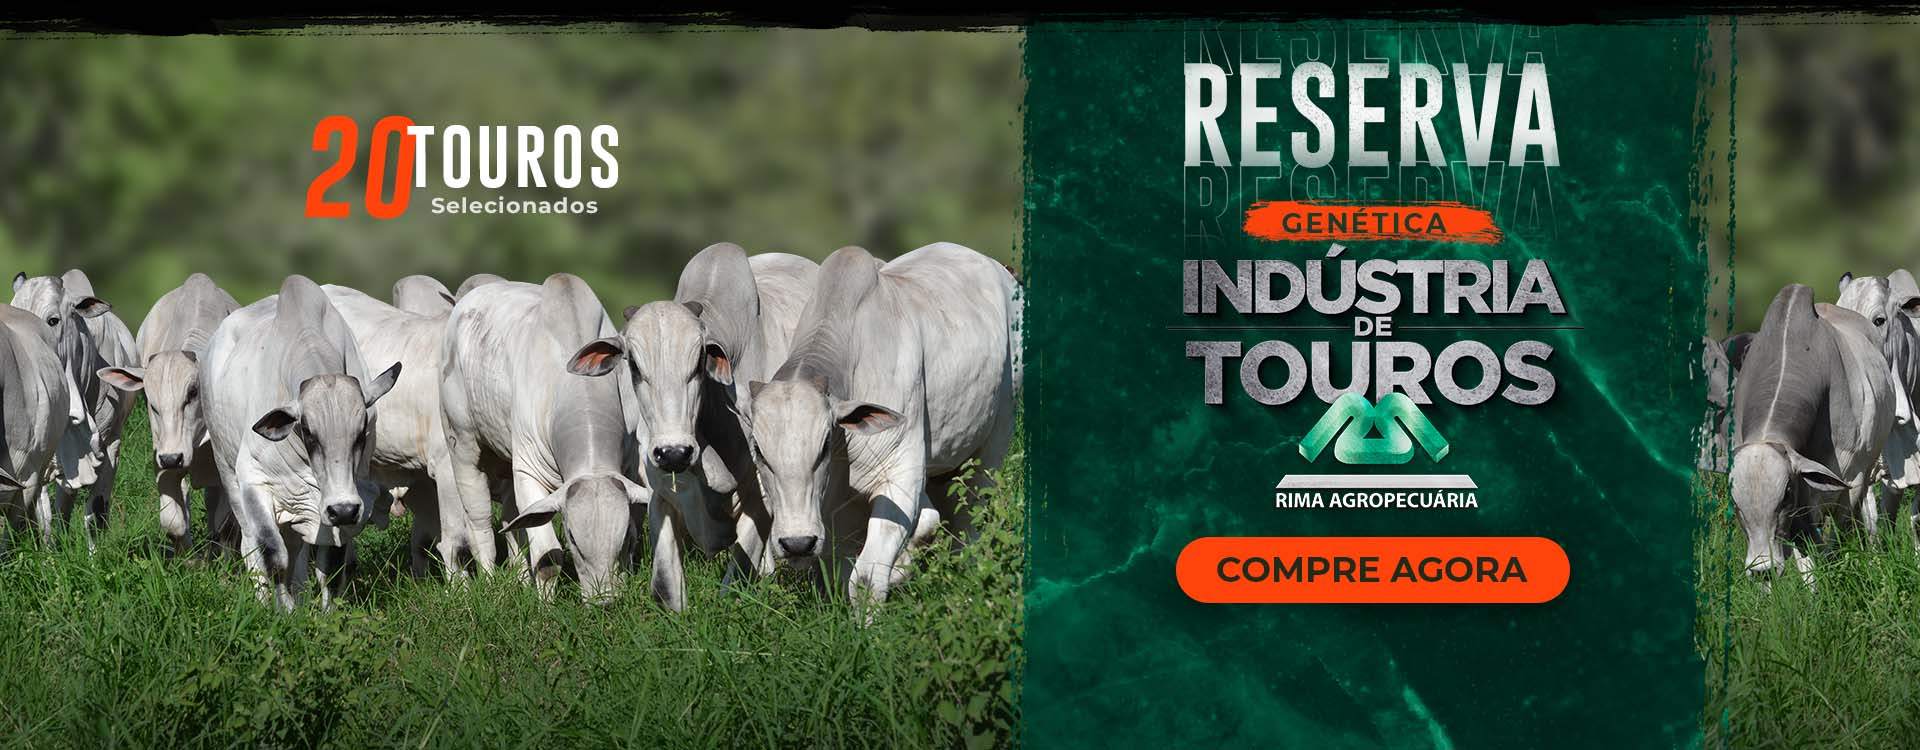
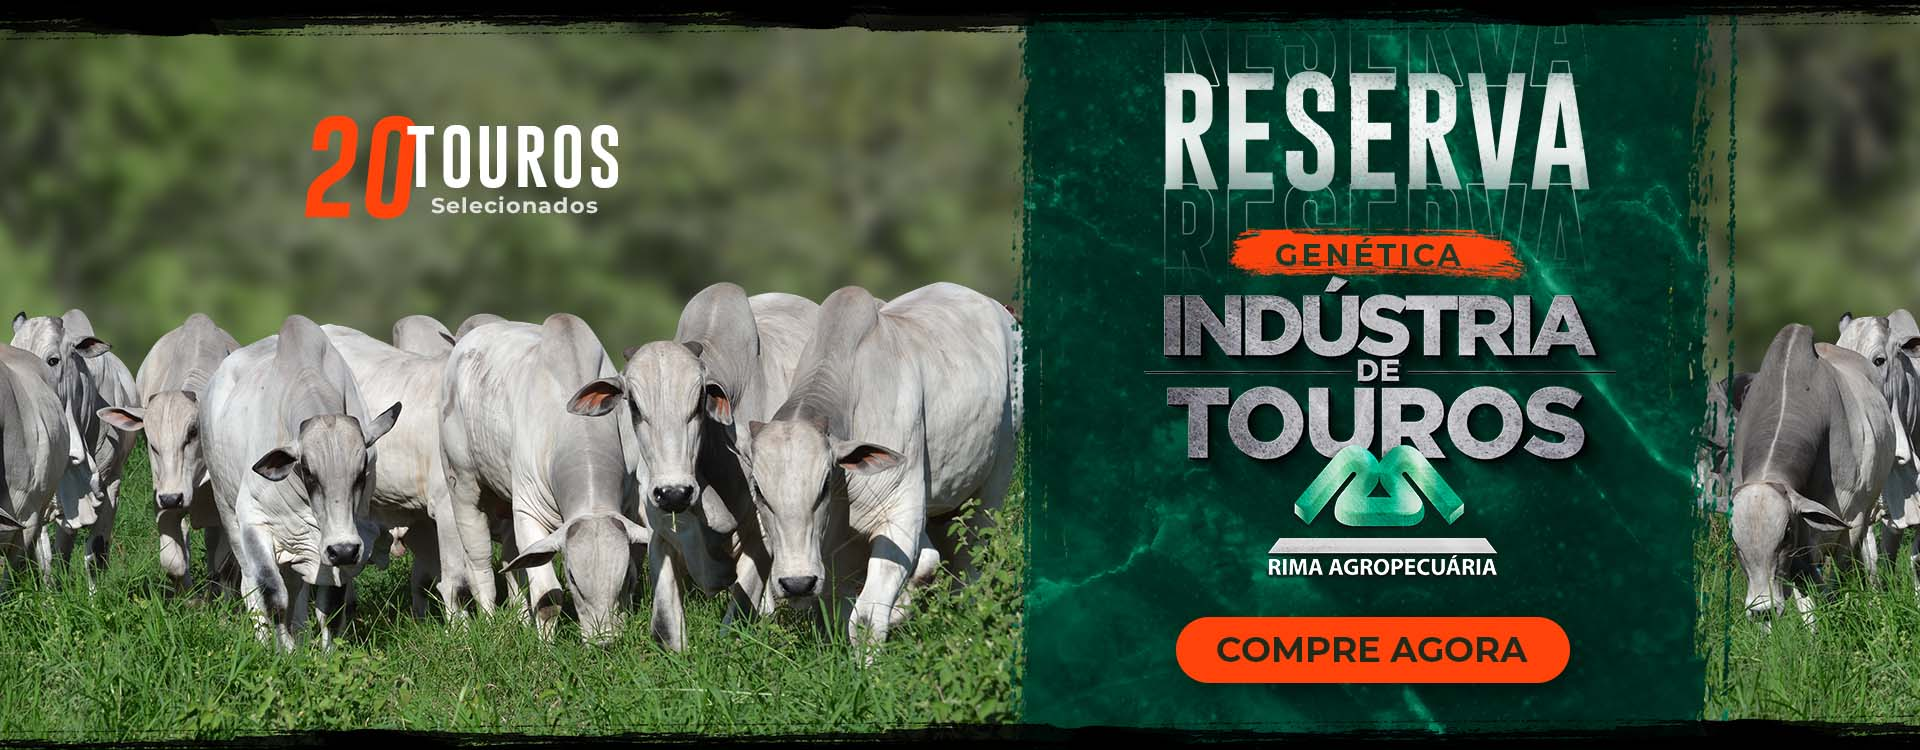
Update

diff --git a/public/css/main.css b/public/css/main.css
@@ -559,7 +559,7 @@ label {
     left:0; 
     width: 100%;
     z-index: 0;
-    margin-top: 50px;
+    margin-top: 0px;
 }
 
 #container-section1{
@@ -594,7 +594,7 @@ label {
 
 @media(max-width:1920px){
     #row-cards-fazendas{
-        margin-top: 600px;
+        margin-top: 750px;
     }
 }
 

diff --git a/resources/views/index.blade.php b/resources/views/index.blade.php
@@ -15,20 +15,23 @@
     <div class="container-fluid d-lg-none" style="background-color: black;">
         <div class="row px-0">
             <div id="container-banner-mobile" class="carousel slide d-lg-none" data-ride="carousel">
-                <div
-                    style="position: absolute; bottom:-10px; left:0; width: 100%;background: rgb(0,0,0); background: linear-gradient(0deg, rgba(0,0,0,0.9850315126050421) 20%, rgba(0,212,255,0) 100%); height: 150px; z-index: 5;">
+                {{-- <div
+                    style="pointer-events: none; position: absolute; bottom:-10px; left:0; width: 100%;background: rgb(0,0,0); background: linear-gradient(0deg, rgba(0,0,0,0.9850315126050421) 20%, rgba(0,212,255,0) 100%); height: 150px; z-index: 5;">
 
-                </div>
+                </div> --}}
                 <div class="carousel-inner">
                     <div class="carousel-item active" onclick="window.location.href= 'https://agroreserva.com.br/fazenda/rima-agropecuaria/lotes'">
                         <img src="{{asset('imagens/banner1-mobile.jpg')}}" class="d-block w-100">
                     </div>
+                    <div class="carousel-item">
+                        <img src="{{asset('imagens/banner2-mobile.jpg')}}" class="d-block w-100">
+                    </div>
                 </div>
-                <a class="carousel-control-prev" href="#carouselExampleControls" role="button" data-slide="prev">
+                <a class="carousel-control-prev" href="#container-banner-mobile" role="button" data-slide="prev">
                     <span class="carousel-control-prev-icon" aria-hidden="true"></span>
                     <span class="sr-only">Previous</span>
                 </a>
-                <a class="carousel-control-next" href="#carouselExampleControls" role="button" data-slide="next">
+                <a class="carousel-control-next" href="#container-banner-mobile" role="button" data-slide="next">
                     <span class="carousel-control-next-icon" aria-hidden="true"></span>
                     <span class="sr-only">Next</span>
                 </a>
@@ -41,9 +44,10 @@
                 <div class="row">
                     <div id="container-banner-desktop" class="d-none d-lg-block" style="">
                         <img class="active cpointer" src="{{ asset('imagens/banner1.jpg') }}" num="1" style="width: 100%;" alt="" onclick="window.location.href= 'https://agroreserva.com.br/fazenda/rima-agropecuaria/lotes'">
-                        <div
+                        <img class="cpointer" src="{{ asset('imagens/banner2.jpg') }}" num="2" style="display:none; width: 100%;" alt="">
+                        {{-- <div
                             style="position: absolute; bottom:0; left:0; width: 100%;background: rgb(0,0,0); background: linear-gradient(0deg, rgba(0,0,0,1) 25%, rgba(0,212,255,0) 100%); height: 250px;">
-                        </div>
+                        </div> --}}
                         <div id="banner-arrow-left"
                             style="position: absolute; left: 30px; top: calc(50% - 20px); padding: 7px 10px 5px 10px; background-color: rgba(255,255,255, 0.2); border-radius: 5px; cursor: pointer;">
                             <i class="fas fa-chevron-left text-white fa-lg"></i>
@@ -309,7 +313,7 @@
 
 @section('scripts')
     <script>
-        var num_banners = 1;
+        var num_banners = 2;
 
         function troca_banner(direcao) {
             var atual = $("#container-banner-desktop > img.active");
